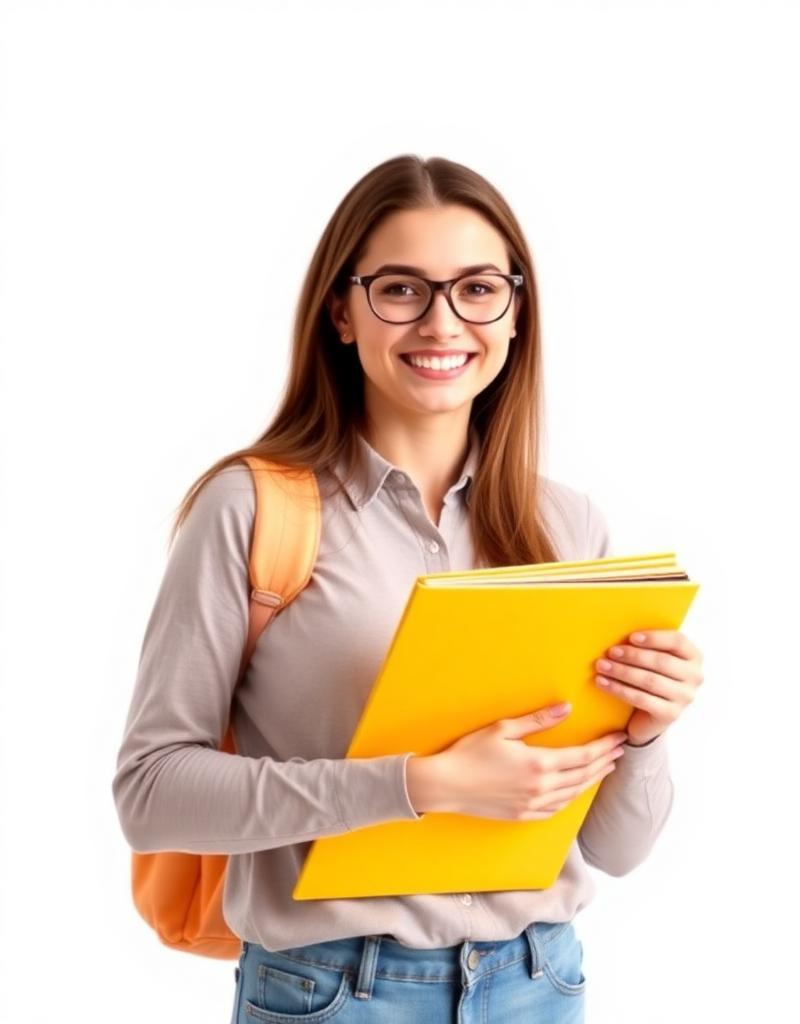
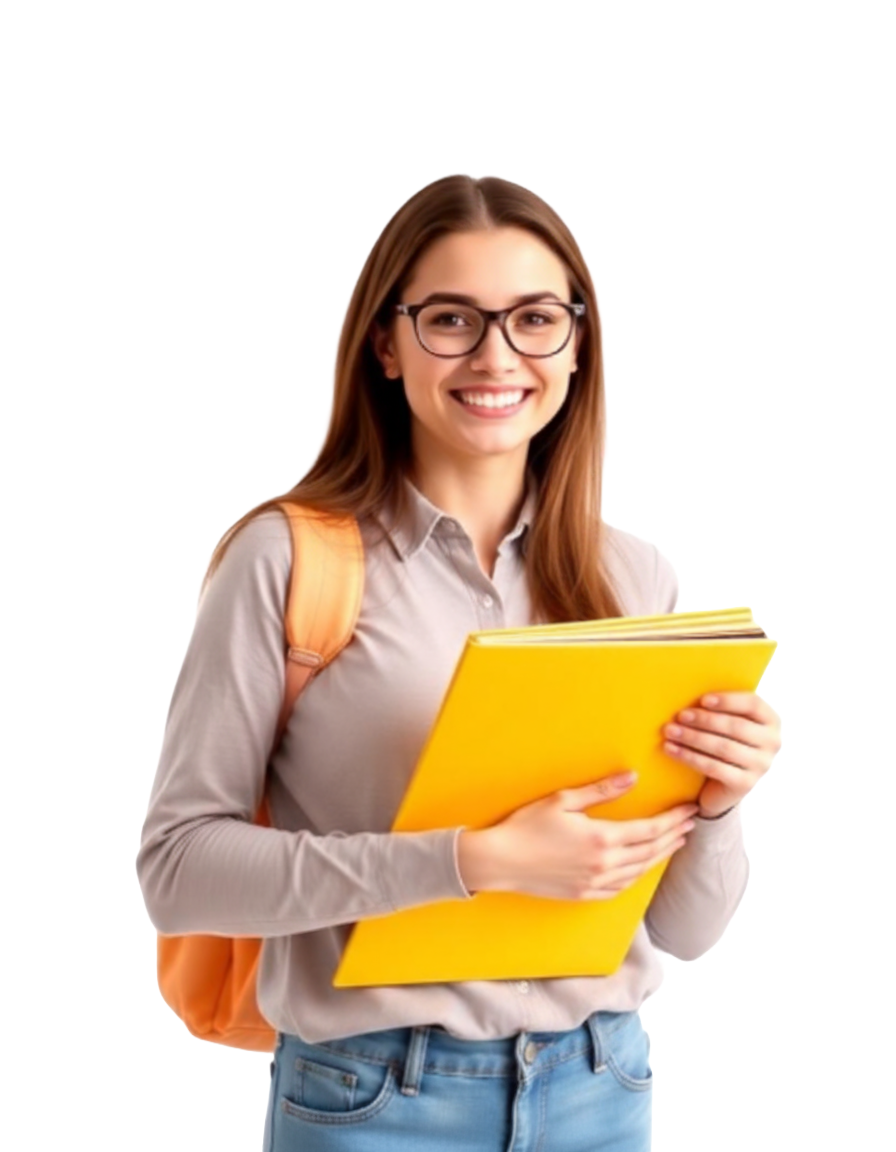
Update hero image

Changed region(s): [[0.125, 0.1562, 0.875, 1.0], [0.4375, 0.1562, 0.4688, 0.1875]]

diff --git a/src/components/NewHero.tsx b/src/components/NewHero.tsx
@@ -1,7 +1,7 @@
 import { Button } from "@/components/ui/button";
 import { Card } from "@/components/ui/card";
 import { BookOpen, Users, Download, Sparkles } from "lucide-react";
-import studentHero from "@/assets/student-hero-transparent.png";
+import studentHero from "@/assets/student-hero.png";
 import { useEffect, useState } from "react";
 
 interface NewHeroProps {
